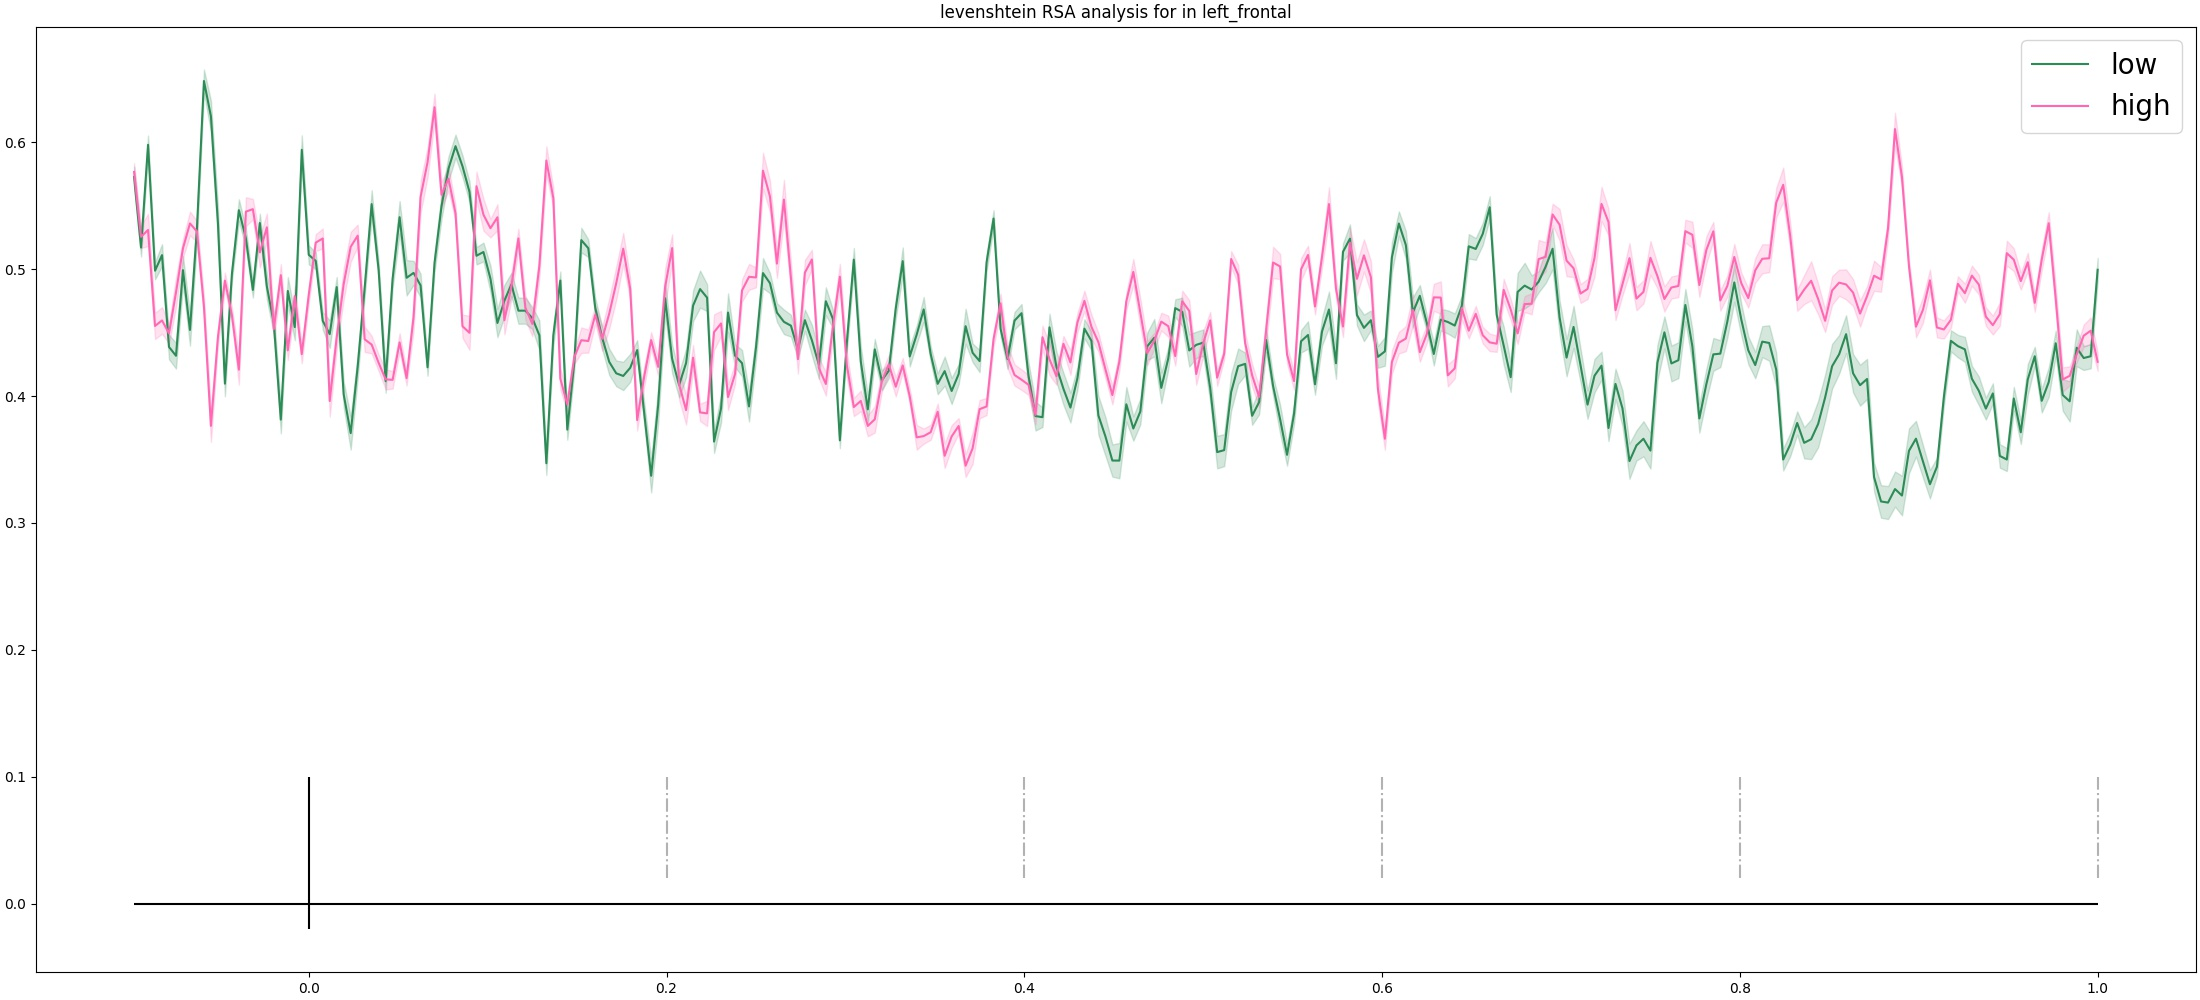
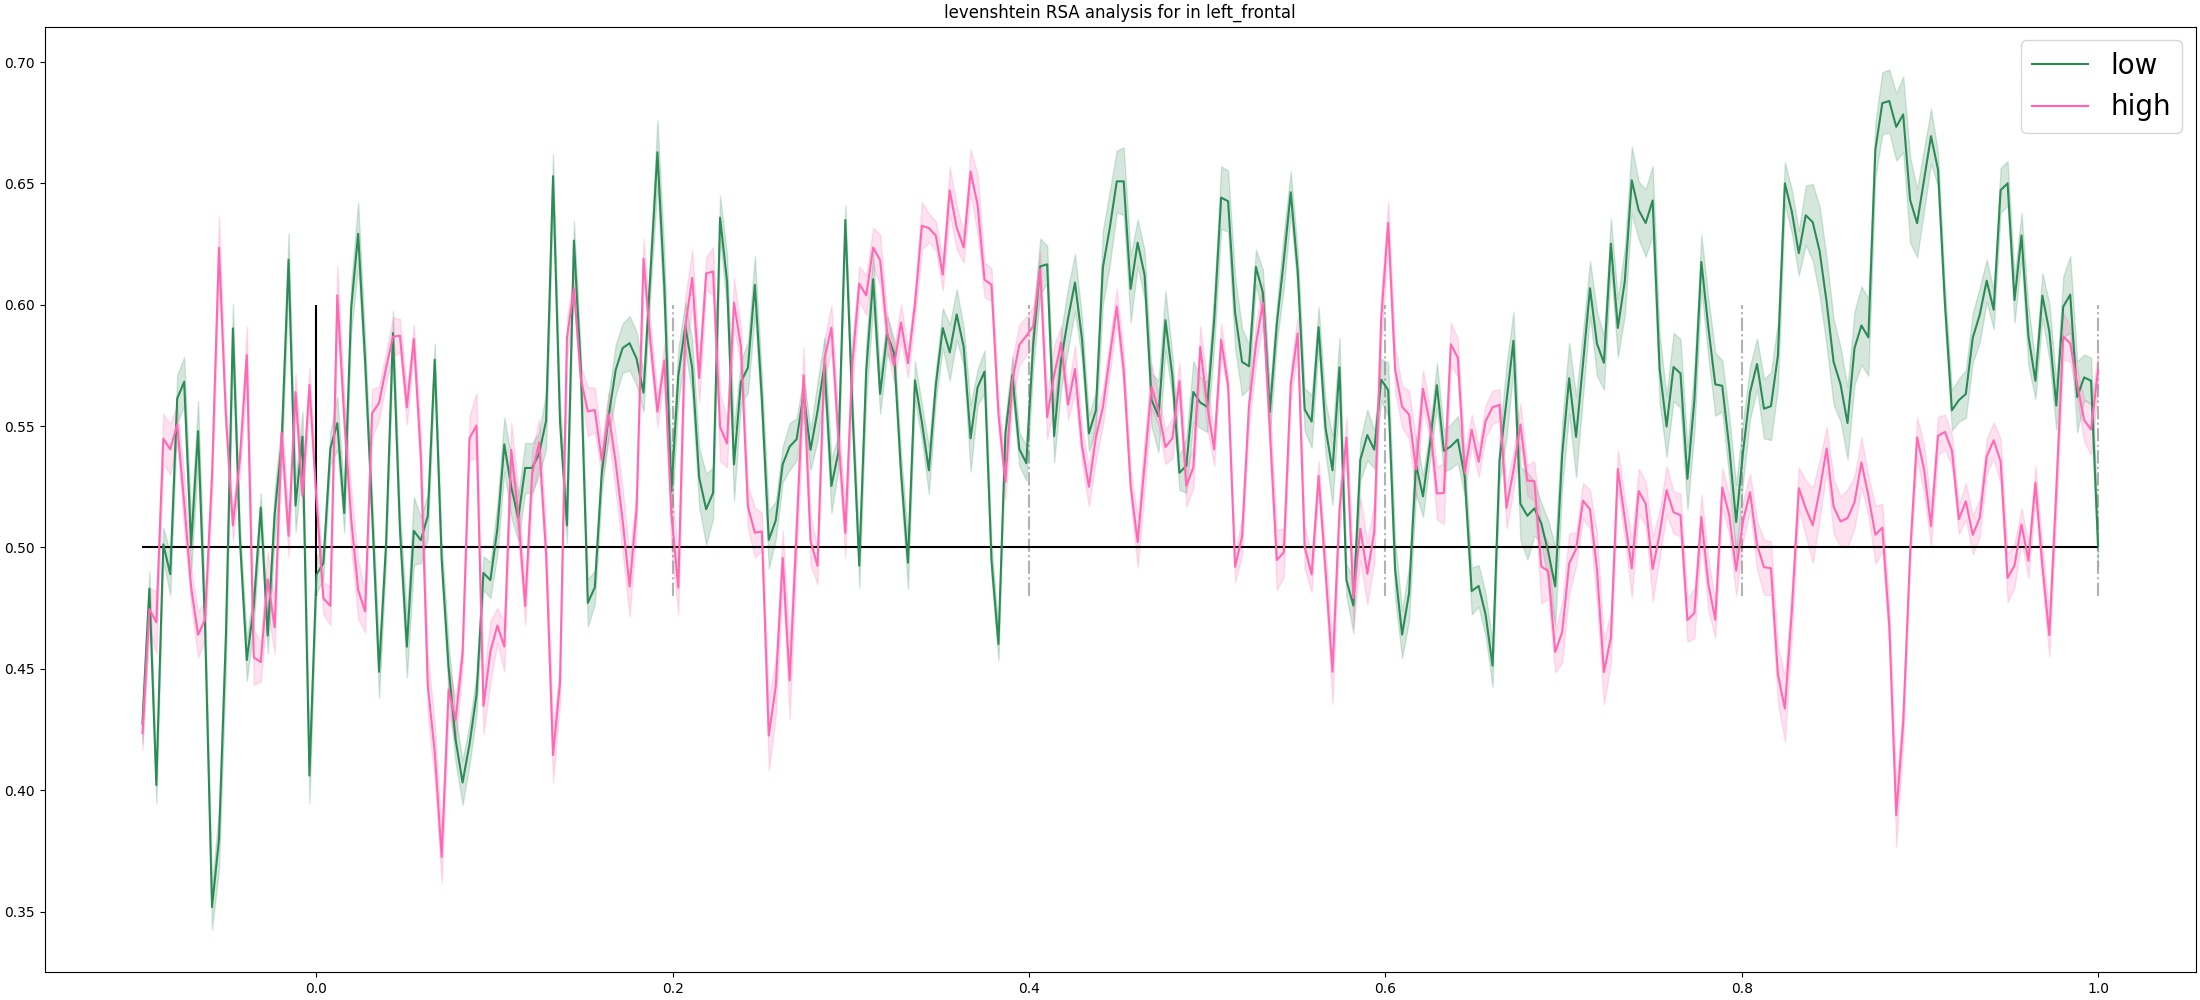
new plots

diff --git a/04_rsa_simple.py b/04_rsa_simple.py
@@ -49,8 +49,8 @@ def compute_pairwise(t):
     accuracies = list()
     for w_one, w_two in combs:
         rsa_model = [distances[model][tuple(sorted(c))] for c in combs]
-        pred_one = numpy.average([t_data[w]*distances[model][tuple(sorted([w, w_one]))] for w in t_data.keys() if w not in [w_one, w_two]], axis=0)
-        pred_two = numpy.average([t_data[w]*distances[model][tuple(sorted([w, w_two]))] for w in t_data.keys() if w not in [w_one, w_two]], axis=0)
+        pred_one = numpy.average([t_data[w]*-distances[model][tuple(sorted([w, w_one]))] for w in t_data.keys() if w not in [w_one, w_two]], axis=0)
+        pred_two = numpy.average([t_data[w]*-distances[model][tuple(sorted([w, w_two]))] for w in t_data.keys() if w not in [w_one, w_two]], axis=0)
         ### match
         match = 0.
         match += scipy.stats.pearsonr(pred_one, t_data[w_one])[0]
@@ -224,6 +224,7 @@ for model in [
                 current_words = sorted(erp_data.keys())
                 combs = list(itertools.combinations(current_words, r=2))
                 if args.evaluation == 'correlation':
+                    baseline = 0.
                     rsa_model = [distances[model][tuple(sorted(c))] for c in combs]
 
                     if args.debugging:
@@ -235,6 +236,7 @@ for model in [
                             pool.terminate()
                             pool.join()
                 elif args.evaluation == 'pairwise':
+                    baseline = .5
                     if args.debugging:
                         results = map(compute_pairwise, tqdm(range(erp.shape[-1])))
 
@@ -258,9 +260,9 @@ for model in [
                             alpha=0.2,
                             )
         height = 0.5
-        ax.vlines(x=0., ymin=-.02, ymax=.1, color='black')
-        ax.vlines(x=[0.2, 0.4, 0.6, 0.8, 1.], ymin=0.02, ymax=.1, linestyle='dashdot', color='gray', alpha=0.6)
-        ax.hlines(y=0., xmin=min(xs), xmax=max(xs), color='black')
+        ax.vlines(x=0., ymin=baseline-.02, ymax=baseline+.1, color='black')
+        ax.vlines(x=[0.2, 0.4, 0.6, 0.8, 1.], ymin=baseline-0.02, ymax=baseline+.1, linestyle='dashdot', color='gray', alpha=0.6)
+        ax.hlines(y=baseline, xmin=min(xs), xmax=max(xs), color='black')
         ax.legend(fontsize=20)
         title = '{} RSA analysis for in {}'.format(model, sector_name)
         ax.set_title(title)
